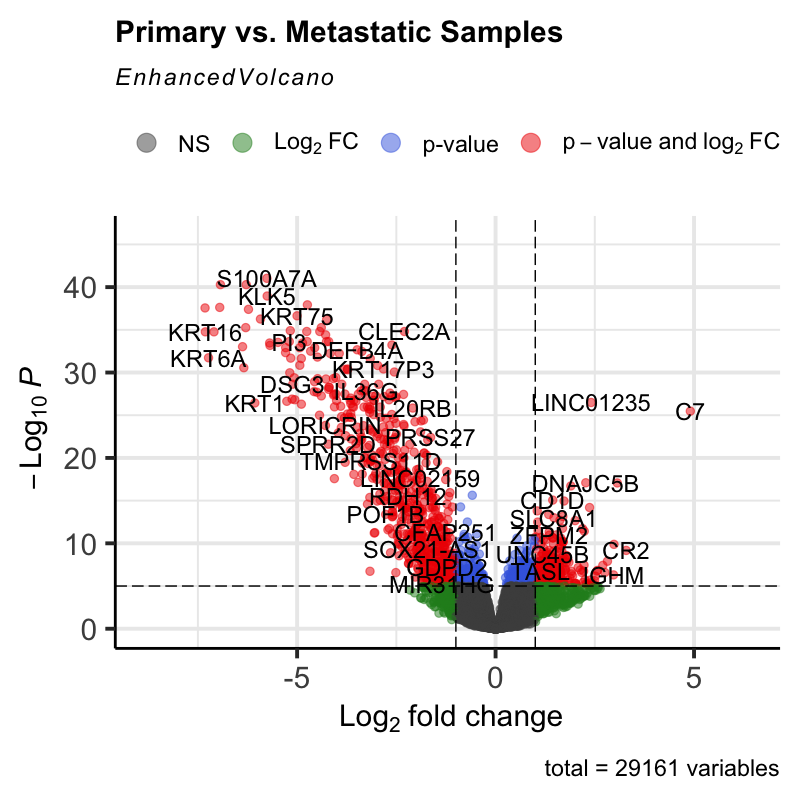
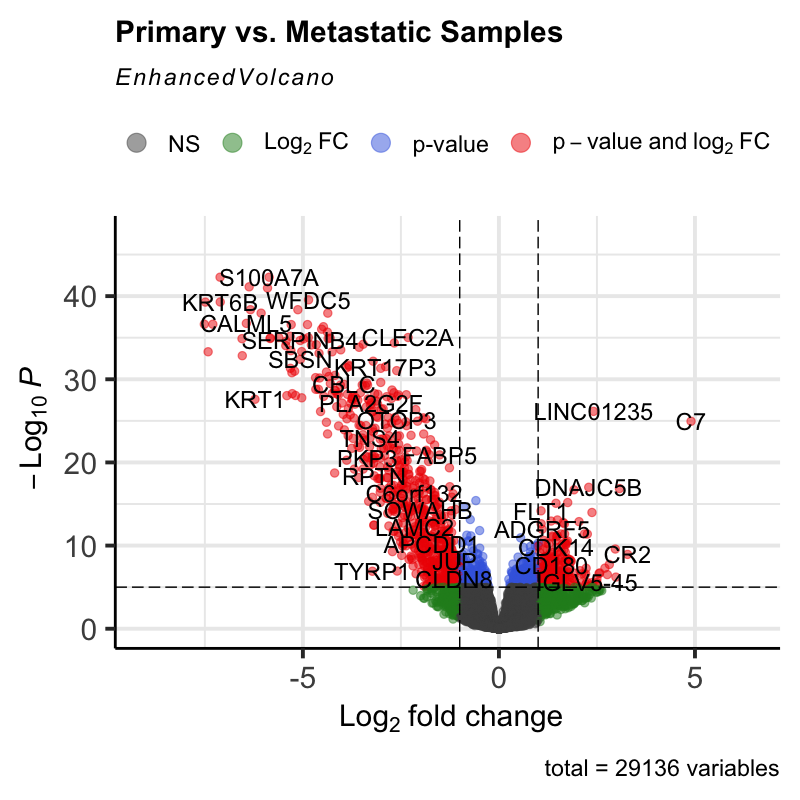
added volcano plot

diff --git a/README.md b/README.md
@@ -16,7 +16,6 @@ Bulk RNA-seq data from TCGA Skin Cutaneous Melanoma (SKCM) dataset was downloade
 | Primary | Mucosal | 1 |
 
 **Table 1. Summary of the number of sample from different tissue sites.**
-
 There shouldn't be "Primary" samples from non-cutaneous tissues. These are mislabeled and will be removed. 
   
   
@@ -38,7 +37,6 @@ There shouldn't be "Primary" samples from non-cutaneous tissues. These are misla
 | 4 | 3 | 21 |
 
 **Table 2. Summary of the number of samples from disease stages.**
-
 There shouldn't be metastatic samples labeled Stage 0 or stage 1, and probably not stage 2 either. This is concerning. I could eliminate early stage samples, but this would substaintally lower our sample size. I'll leave these samples in for now and see how they related to other samples in a PCA. 
   
   
@@ -46,19 +44,23 @@ There shouldn't be metastatic samples labeled Stage 0 or stage 1, and probably n
 ![alt_text](https://github.com/SciOmics/TCGA_Melanoma_RNASeq/blob/main/outputs/plots/pca_plots.png?raw=true)  
 
 **Figure 1. PCA plots of normalized expression**
-
 There is some seperation of primary vs. metastatic samples in PC1 and PC2. This is driven in part by the lymph node metastatic samples, but the metastatic cutaneous samples also seem to seperate. Let's plot just the cutaneous samples.
 
 ![alt_text](https://github.com/SciOmics/TCGA_Melanoma_RNASeq/blob/main/outputs/plots/pca_plot_cutaneous.png?raw=true)  
 
 **Figure 2. PCA plot filtered to only cutanous samples**
-
 There does indeed appear to be some seperating along PC1 and PC2, a maybe a bit in PC3. 
 
 
 ![alt_text](https://github.com/SciOmics/TCGA_Melanoma_RNASeq/blob/main/outputs/plots/survival_plot_stage.png?raw=true)  
 
-**Figure 3. Survival by disease stage.**
+**Figure 3. Overall survival by disease stage.**
+Overall survival probability gets shorter as disease stage increases. This is what I would expect, but it is a good sanity check of the data. 
+
+
+![alt_text](https://github.com/SciOmics/TCGA_Melanoma_RNASeq/blob/main/outputs/plots/volcano_plot.png?raw=true)  
+
+**Figure 4. Volcano plot: primary vs. metastatic samples.**
 
 
 
